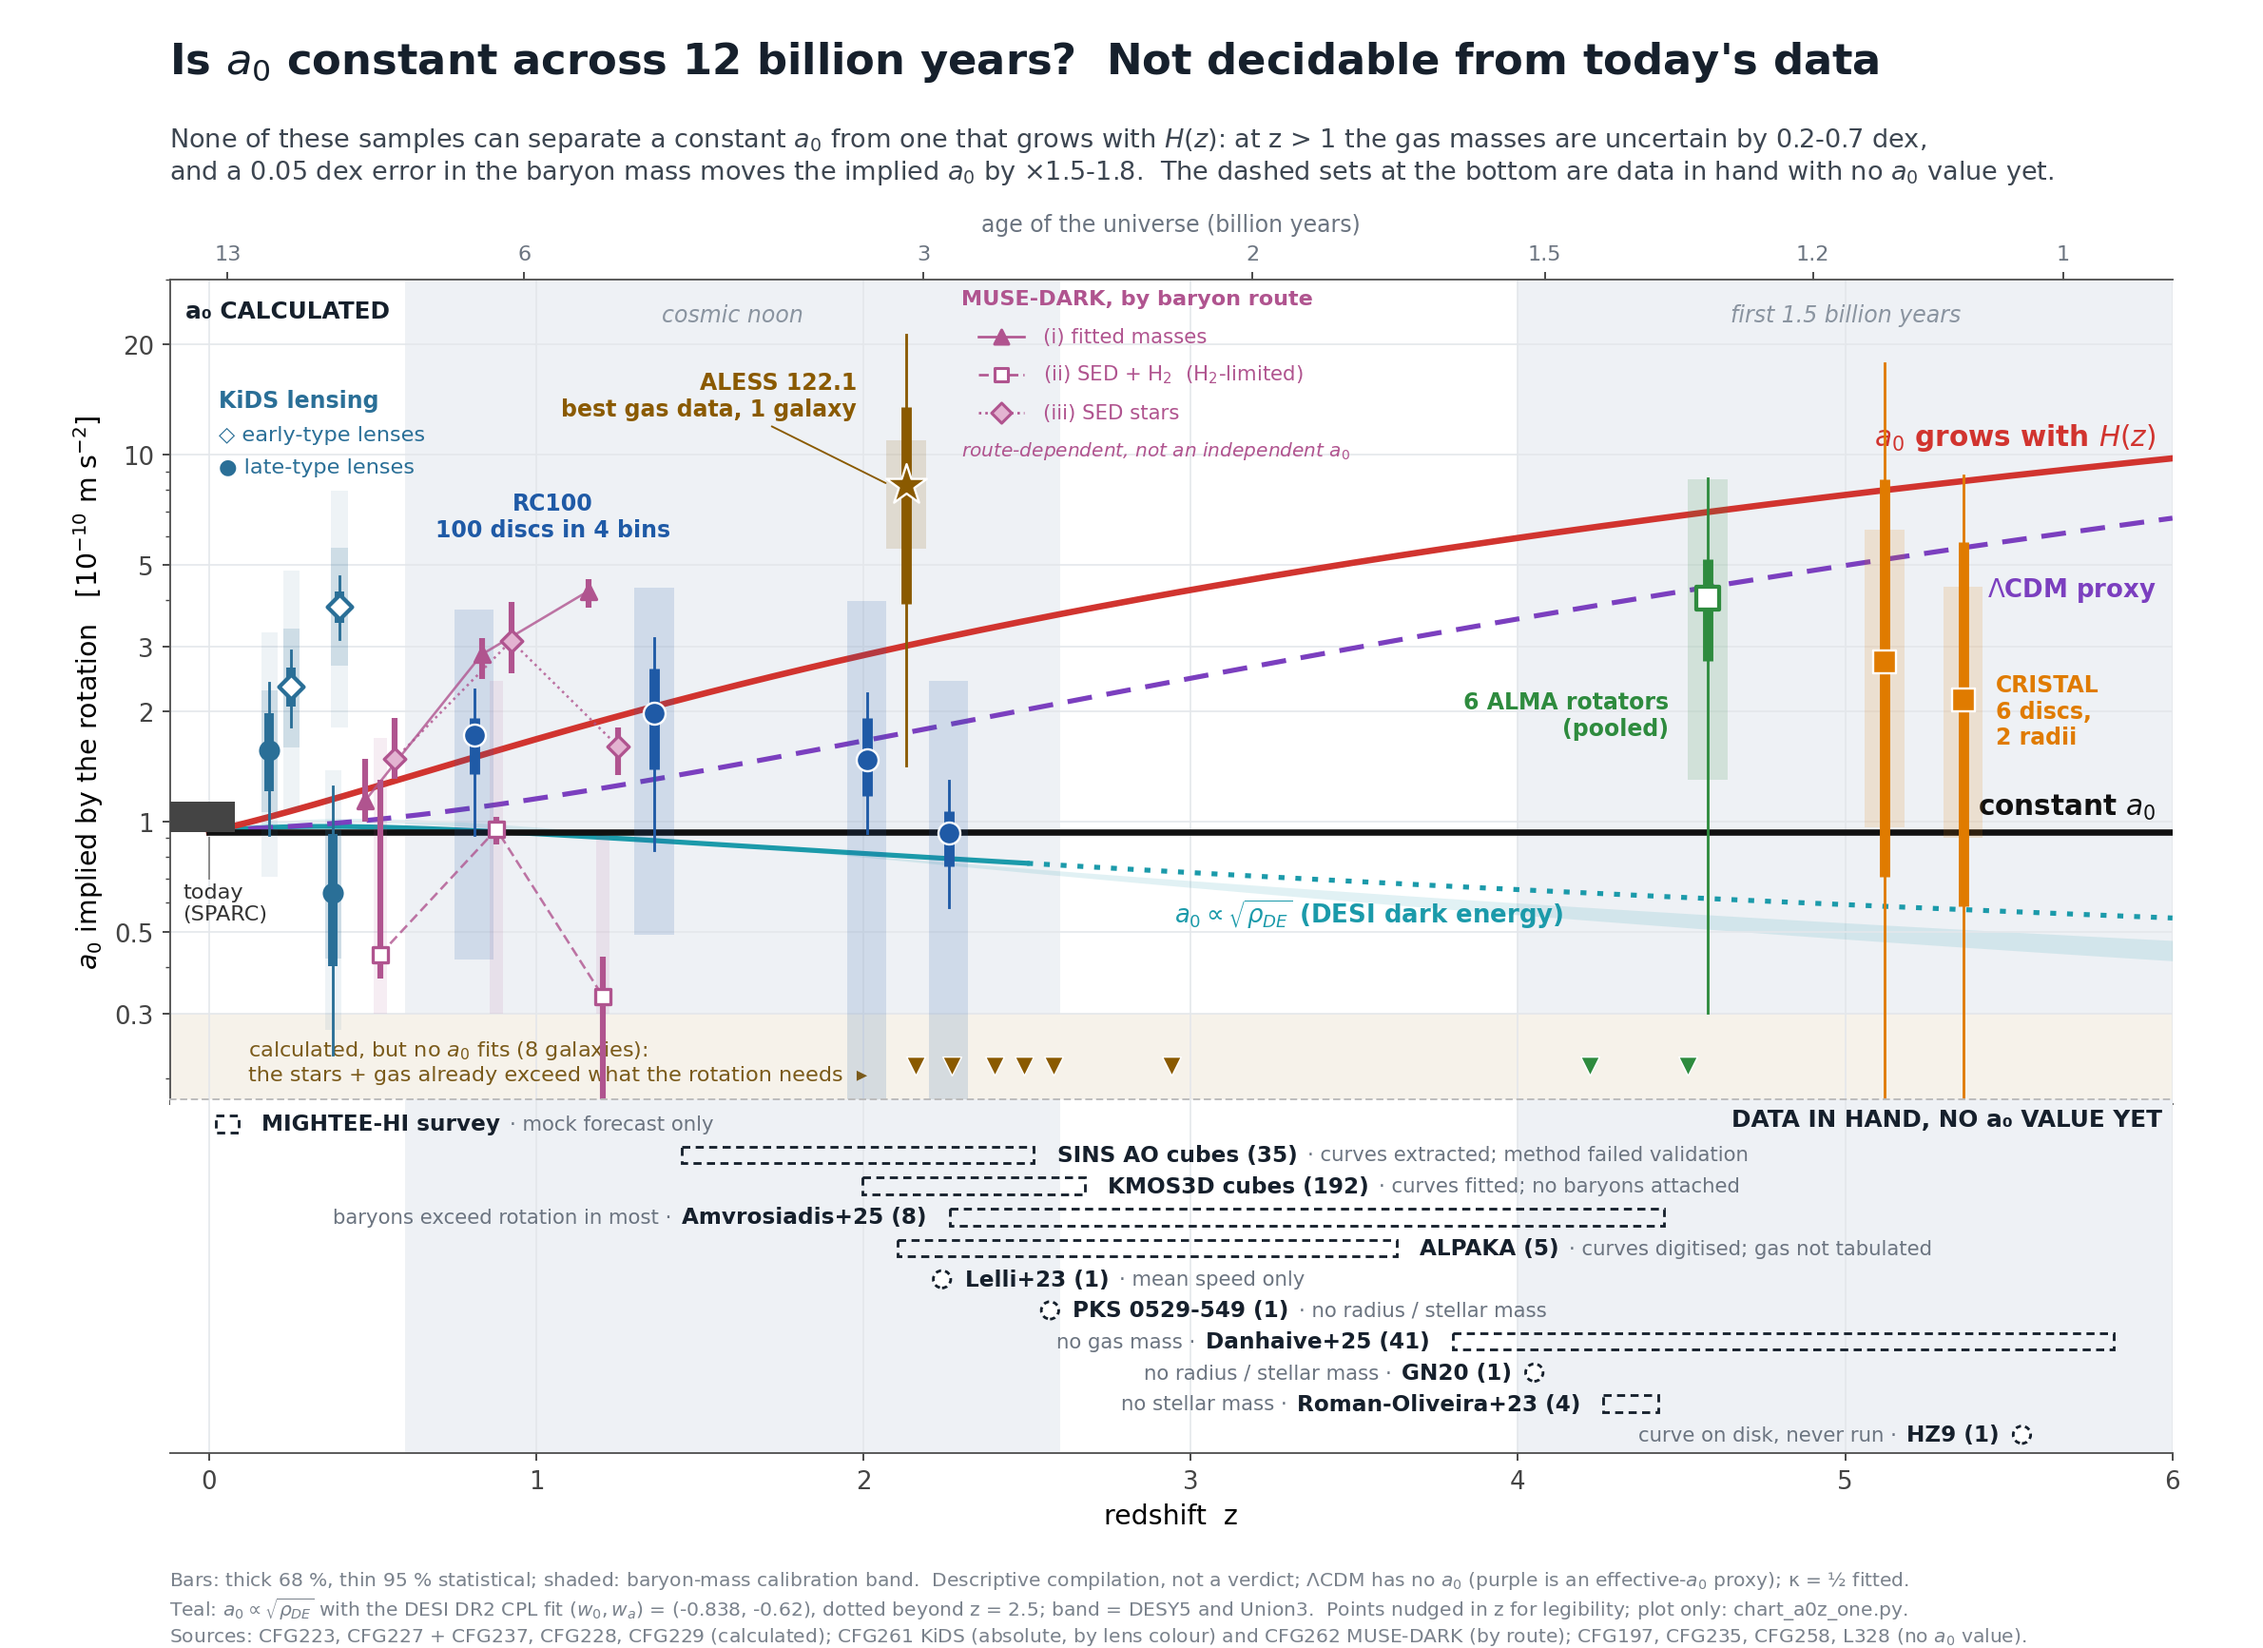
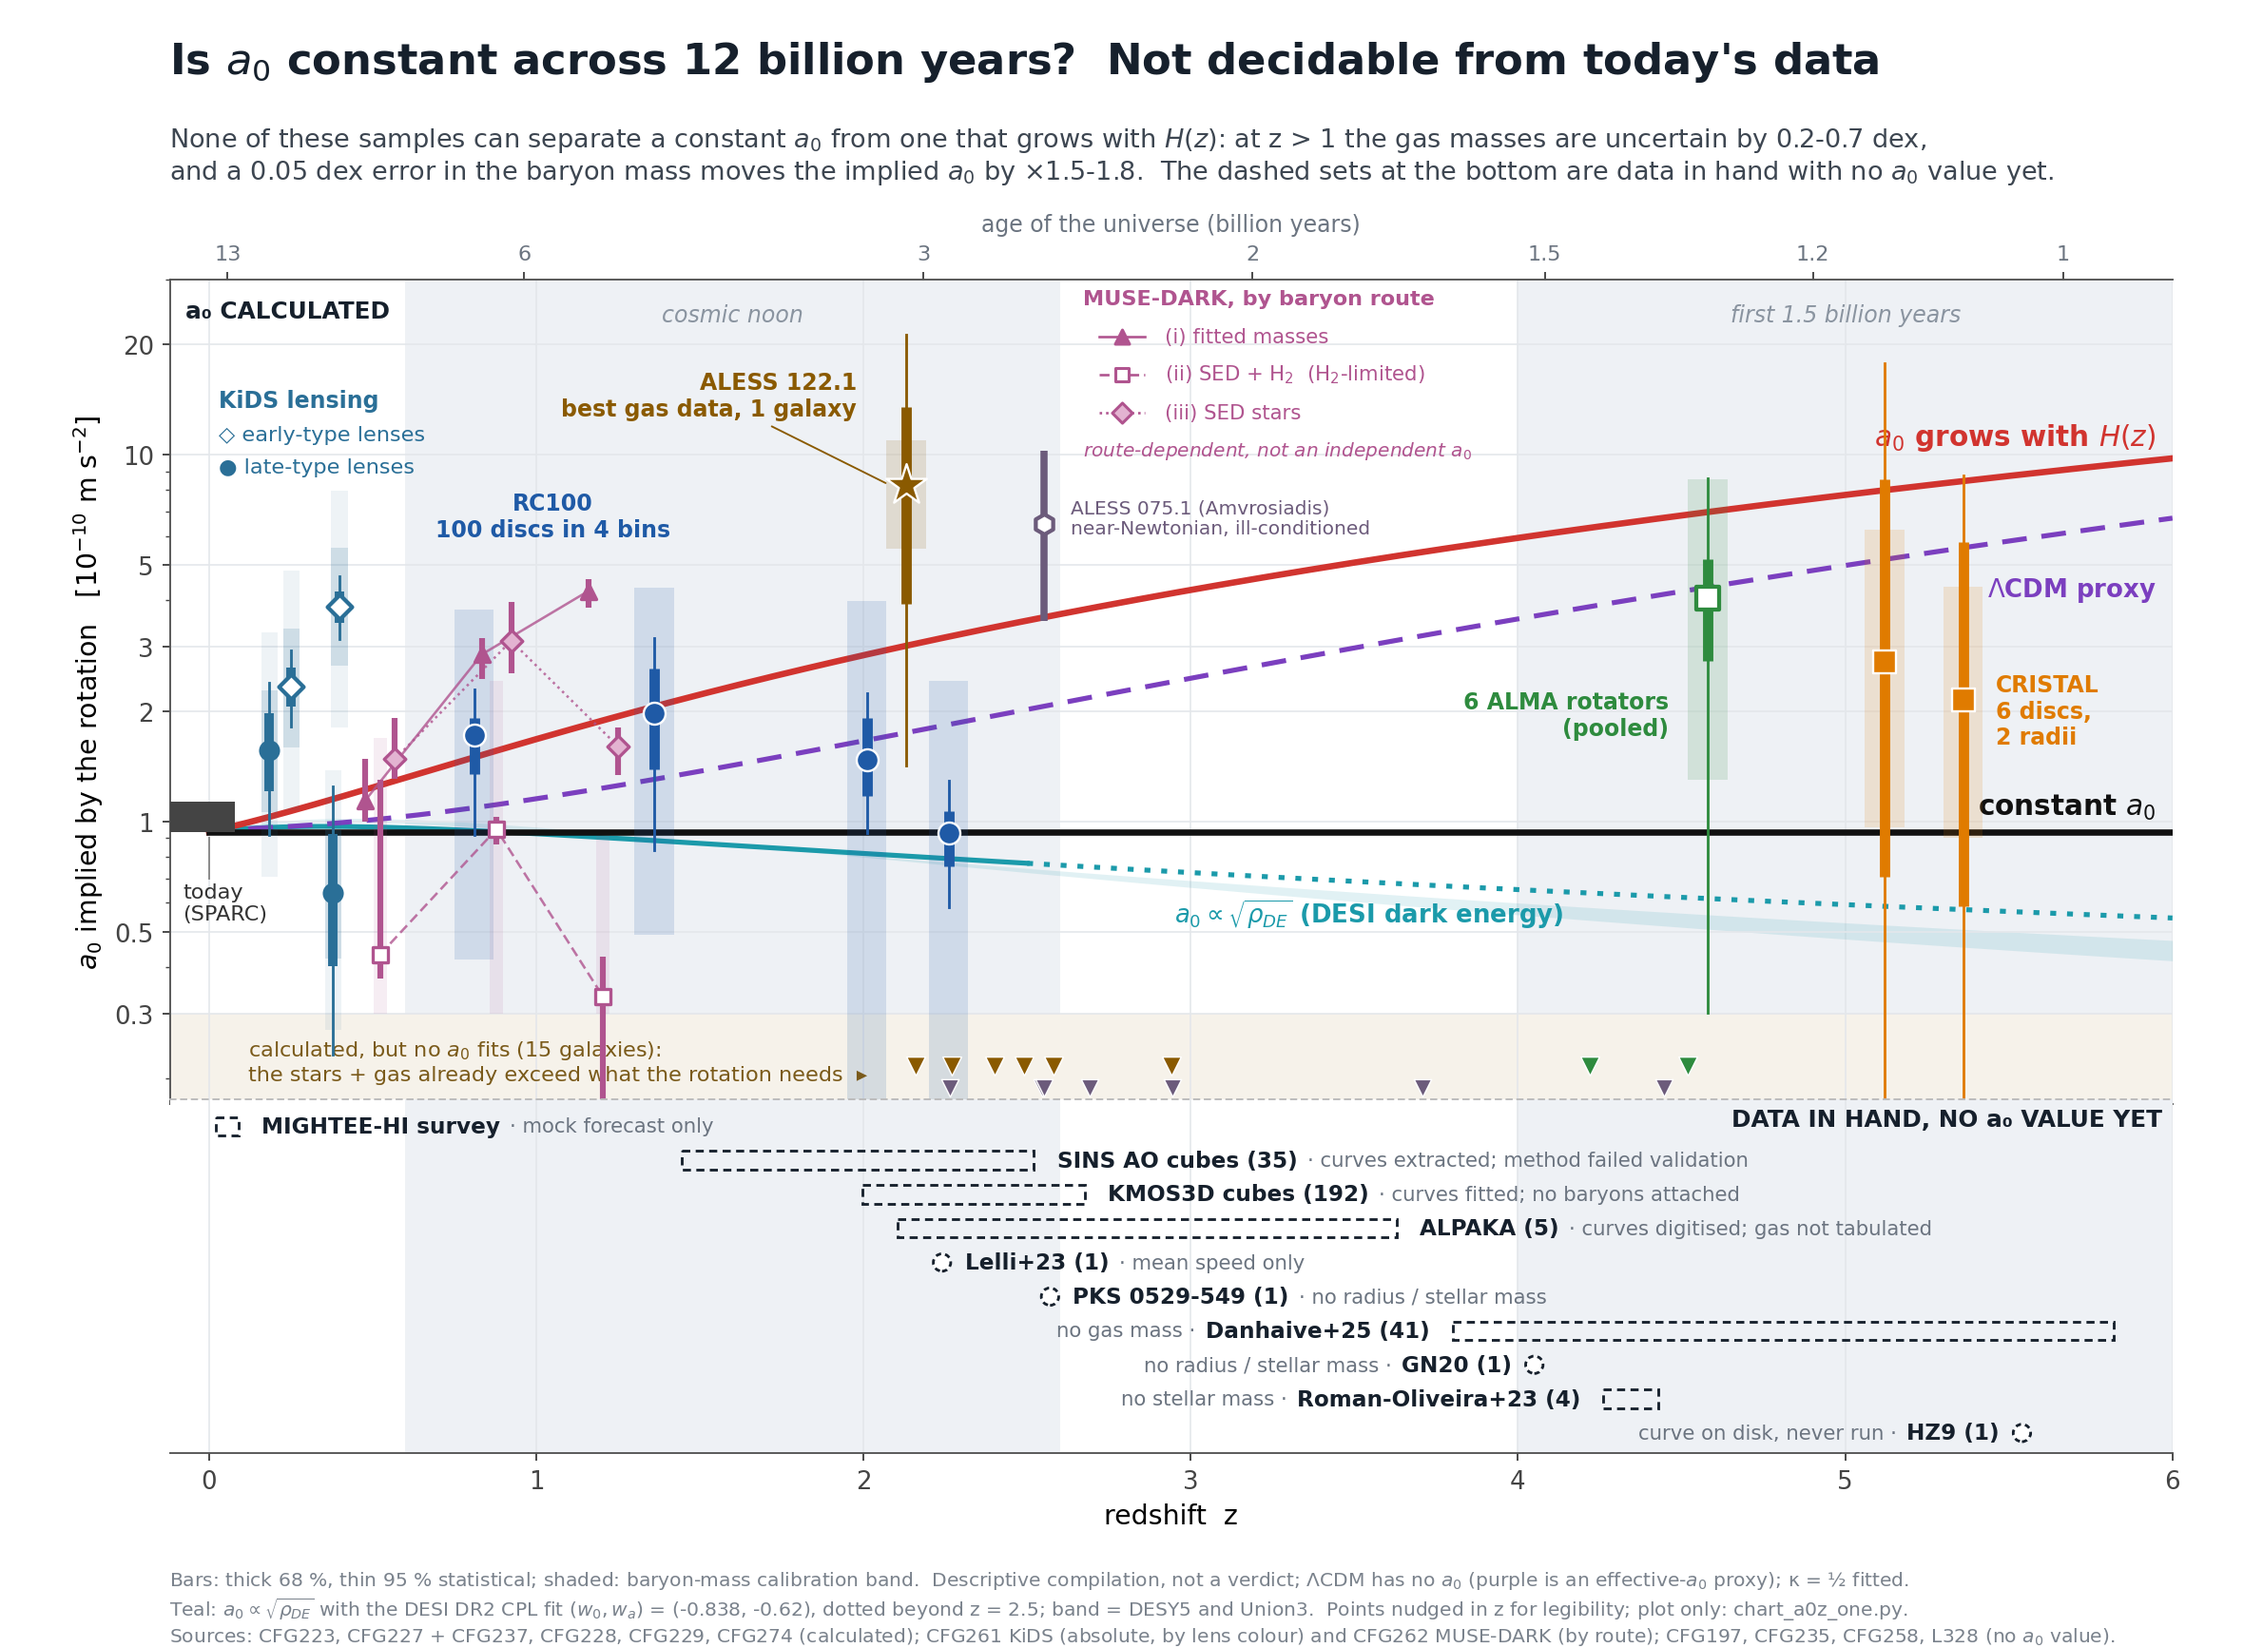
CHART one-chart: Amvrosiadis eight from CFG274 (255f07244) -- seven no-root floor triangles, ALESS 075.1 s* 6.89 as a labelled ill-conditioned open marker; row removed from the no-a0-yet strip; floor count 15; 11/11 checks; plot only

diff --git a/campaign_fresh_gravity/CHART_a0z_rar_z0_5_2026-10-01/chart_a0z_one.py b/campaign_fresh_gravity/CHART_a0z_rar_z0_5_2026-10-01/chart_a0z_one.py
@@ -44,12 +44,11 @@ alp_none = [alp[i] for i in ("13", "23", "24", "25", "28")]          # CFG237: n
 DA = os.path.join(ROOT, "data_assembly")   # data-front cube products (50d8c274e SINS, ff6633985 KMOS3D): no a0 computed there
 sins = [float(r["z"]) for r in csv.DictReader(open(os.path.join(DA, "sins_cubes", "sins_ao_per_galaxy_AMEND1.csv")))]
 k3d = [float(r["Z"]) for r in csv.DictReader(open(os.path.join(DA, "kmos3d_cubes", "k3d_fits_main_final_flags.csv")))]
-amv = [float(r["z"]) for r in rar if r["class"] == "S" and r["id"] != "122.1"]   # 122.1 has a class-M a0 (CFG229)
+A274 = [r for r in csv.DictReader(open(os.path.join(CFG, "CFG274_amvrosiadis_eight_discs", "cfg274_points_stageB.csv"))) if "pooled" not in r["object"]]   # CFG274 255f07244
 TODO = [  # (label, zmin, zmax, short note)       sources: CFG227 'Listed, no point' + CFG237 + CFG258 + L328
     ("MIGHTEE-HI survey", 0.02, 0.09, "mock forecast only"),
     (f"SINS AO cubes ({len(sins)})", min(sins), max(sins), "curves extracted; method failed validation"),
     (f"KMOS3D cubes ({len(k3d)})", min(k3d), max(k3d), "curves fitted; no baryons attached"),
-    (f"Amvrosiadis+25 ({len(amv)})", min(amv), max(amv), "baryons exceed rotation in most"),
     (f"ALPAKA ({len(alp_none)})", min(alp_none), max(alp_none), "curves digitised; gas not tabulated"),
     ("Lelli+23 (1)", 2.24, 2.24, "mean speed only"),
     ("PKS 0529-549 (1)", 2.57, 2.57, "no radius / stellar mass"),
@@ -64,7 +63,7 @@ check("ALESS 122.1 plotted a0 equals CFG229 a0_imp", abs(f(pts["ALESS_122.1"], "
 check("ALPINE6 plotted a0 equals CFG228 a0_imp", abs(f(pts["ALPINE6 pooled"], "a0_1e-10_m_s2") * 1e-10 - J228["IMPL"]["ALPINE6"]["a0_imp"]) < 1e-14)
 check("Danhaive gold: 41 discs at z 3.80-5.82", len(dan) == 41 and abs(min(dan) - 3.80) < 1e-6 and abs(max(dan) - 5.82) < 1e-6, f"({len(dan)}, {min(dan)}-{max(dan)})")
 check("Roman-Oliveira with kinematics: 4", len(ro) == 4, f"({len(ro)}: {[i for i, _ in ro]})")
-check("Amvrosiadis without an a0: 8", len(amv) == 8, f"({len(amv)})")
+check("CFG274 Amvrosiadis: 7 of 8 no root, ALESS 075.1 s* 6.89 (255f07244)", sum(r["no_root"] == "1" for r in A274) == 7 and any(r["no_root"] == "0" and abs(float(r["s_star"]) - 6.887) < 0.01 for r in A274), f"({sum(r['no_root'] == '1' for r in A274)} no root)")
 nr = [o for o in ("ALPAKA15", "ALPAKA18", "ALPAKA19", "ALPAKA20", "ALPAKA22", "SINS_BX610", "VC5110377875", "SPT0418-47") if pts[o]["no_root"] == "1"]
 check("DESI CPL curve is nearly flat: about 0.87 x local at z = 2", abs(np.interp(2.0, Zc, cur["M-DEC"]) - 0.87) < 0.01, f"({np.interp(2.0, Zc, cur['M-DEC']):.3f})")
 check("SINS AO 35 and KMOS3D 192 cube products on disk", len(sins) == 35 and len(k3d) == 192, f"({len(sins)}, {len(k3d)})")
@@ -132,7 +131,16 @@ NRX = {"SINS_BX610": 2.16, "ALPAKA15": 2.27, "ALPAKA18": 2.40, "ALPAKA19": 2.49,
        "SPT0418-47": 4.22, "VC5110377875": 4.52}
 for o, x in NRX.items():
     ax.scatter([x], [0.215], marker="v", s=70, color=COL["M"] if not o.startswith(("SPT", "VC")) else COL["ALMA"], zorder=6, edgecolor="white", lw=0.6)
-ax.text(0.12, 0.222, "calculated, but no $a_0$ fits (8 galaxies):\nthe stars + gas already exceed what the rotation needs  ▸",
+AMV = "#6c5b7b"
+for r in A274:
+    if r["no_root"] == "1":
+        ax.scatter([f(r, "z")], [0.188], marker="v", s=60, color=AMV, zorder=6, edgecolor="white", lw=0.6)
+    else:
+        zz = f(r, "z"); ax.plot([zz, zz], [f(r, "stat68_lo") * U, f(r, "stat68_hi") * U], color=AMV, lw=3.2, zorder=5, solid_capstyle="butt")
+        ax.scatter([zz], [f(r, "s_star") * U], marker="h", s=80, facecolor="white", edgecolor=AMV, linewidth=1.8, zorder=6)
+        ax.text(zz + 0.08, f(r, "s_star") * U * 1.04, "ALESS 075.1 (Amvrosiadis)\nnear-Newtonian, ill-conditioned", color=AMV, fontsize=8.5, va="center")
+N_NR = 8 + sum(r["no_root"] == "1" for r in A274)
+ax.text(0.12, 0.222, f"calculated, but no $a_0$ fits ({N_NR} galaxies):\nthe stars + gas already exceed what the rotation needs  ▸",
         fontsize=9.5, color="#7a5a1a", va="center")
 # MUSE-DARK (CFG262, fb24a5922): implied a0 in z-thirds BY BARYON ROUTE, reading bD (projected + asymmetric drift, CFG236's
 # best-supported reading). Routes are separate series and are never pooled; all inputs are one DC14 fit plus an SED mass.
@@ -150,7 +158,7 @@ for rt, st in RSTY.items():
             ax.add_patch(plt.Rectangle((xx - 0.02, lo * U), 0.04, (hi - lo) * U, color=COL_MD, alpha=0.10, lw=0, zorder=3))
         ax.plot([xx, xx], [f(r, "stat68_lo") * U, f(r, "stat68_hi") * U], color=COL_MD, lw=2.6, zorder=5, solid_capstyle="butt")
         ax.scatter([xx], [yy], marker=st["mk"], s=46, facecolor=st["fc"], edgecolor=COL_MD, linewidth=1.4, zorder=6)
-lx, ly = 2.35, 21.0
+lx, ly = 2.72, 21.0
 ax.text(lx - 0.05, ly * 1.22, "MUSE-DARK, by baryon route", color=COL_MD, fontsize=9.5, fontweight="bold", ha="left")
 for k, (rt, st) in enumerate(RSTY.items()):
     yy = ly / (1.27 ** k)
@@ -194,7 +202,7 @@ for i, (lab, z0, z1, note) in enumerate(TODO):
         sx.add_patch(plt.Rectangle((z0, i - 0.27), z1 - z0, 0.54, fill=False, ec=INK, lw=1.2, ls=(0, (3, 2)), zorder=3))
     else:
         sx.scatter([z0], [i], s=60, facecolor="white", edgecolor=INK, lw=1.2, linestyle=(0, (2, 1.5)), zorder=3)
-    right = not lab.startswith(("Amvrosiadis", "Danhaive", "GN20", "Roman", "HZ9"))
+    right = not lab.startswith(("Danhaive", "GN20", "Roman", "HZ9"))
     xp = z1 + 0.07 if right else z0 - 0.07
     t = sx.text(xp, i, lab, ha="left" if right else "right", va="center", fontsize=9.8, color=INK, fontweight="bold")
     tb = t.get_window_extent(fig.canvas.get_renderer()); inv = sx.transData.inverted()
@@ -212,7 +220,7 @@ fig.text(0.075, 0.905, "None of these samples can separate a constant $a_0$ from
          "and a 0.05 dex error in the baryon mass moves the implied $a_0$ by ×1.5-1.8.  The dashed sets at the bottom are data in hand with no $a_0$ value yet.",
          fontsize=11.5, color="#3d4651", va="center")
 fig.text(0.075, 0.004, "Bars: thick 68 %, thin 95 % statistical; shaded: baryon-mass calibration band.  Descriptive compilation, not a verdict; "
-         "ΛCDM has no $a_0$ (purple is an effective-$a_0$ proxy); κ = ½ fitted.\nTeal: $a_0 \\propto \\sqrt{\\rho_{DE}}$ with the DESI DR2 CPL fit ($w_0, w_a$) = (-0.838, -0.62), dotted beyond z = 2.5; band = DESY5 and Union3.  Points nudged in z for legibility; plot only: chart_a0z_one.py.\nSources: CFG223, CFG227 + CFG237, CFG228, CFG229 (calculated); CFG261 KiDS (absolute, by lens colour) and CFG262 MUSE-DARK (by route); CFG197, CFG235, CFG258, L328 (no $a_0$ value).",
+         "ΛCDM has no $a_0$ (purple is an effective-$a_0$ proxy); κ = ½ fitted.\nTeal: $a_0 \\propto \\sqrt{\\rho_{DE}}$ with the DESI DR2 CPL fit ($w_0, w_a$) = (-0.838, -0.62), dotted beyond z = 2.5; band = DESY5 and Union3.  Points nudged in z for legibility; plot only: chart_a0z_one.py.\nSources: CFG223, CFG227 + CFG237, CFG228, CFG229, CFG274 (calculated); CFG261 KiDS (absolute, by lens colour) and CFG262 MUSE-DARK (by route); CFG197, CFG235, CFG258, L328 (no $a_0$ value).",
          fontsize=8.6, color="#7a828c")
 fig.savefig(os.path.join(HERE, "chart_a0z_one_2026-10-01.png"), dpi=170)
 P(f"{sum(CHECKS)}/{len(CHECKS)} checks pass; wrote chart_a0z_one_2026-10-01.png")

diff --git a/campaign_fresh_gravity/CHART_a0z_rar_z0_5_2026-10-01/README.md b/campaign_fresh_gravity/CHART_a0z_rar_z0_5_2026-10-01/README.md
@@ -32,3 +32,5 @@ Requested by the owner as a single figure. Top: the calculated implied-a₀ poin
 **KiDS absolute levels (CFG261, 80fd3d666), replacing the CFG255 "change only" bracket and inset.** The four colour-class rows in the lens-z thirds (the joint rows are never headlines): late-type lenses s* = 1.67 (z 0.205) and 0.68 (z 0.400); early-type lenses 2.48 (z 0.232) and 4.12 (z 0.378). Drawn with 68/95 % bars, the inner (±0.15 dex) band darker and the outer (±0.30 dex) band lighter; late nudged −0.02 and early +0.02 in z. The stellar-mass zero point dominates (lever −1.1). The early class sits outside even the outer band for every law, and the classes disagree at the high-z third, so no single a₀ describes both. The ALPAKA strip note ("curves digitised; gas not tabulated") was edited in the working tree by another session and is kept: the table has CO L′ but no gas mass. 11/11 checks pass.
 
 **MUSE-DARK by baryon route (CFG262, fb24a5922), replacing the CFG199 lower-bound arrow.** Reading bD (projected + asymmetric drift), z-thirds 0.523 / 0.878 / 1.204, three separate series that are never pooled. Route (i), fitted masses: 1.22 / 3.05 / 4.53. Route (ii), SED + H₂: 0.46 / 1.02 / 0.36, drawn with its outer band (clipped at the floor zone) and labelled H₂-limited, since its recipe half-width is 0.74–0.93 dex. Route (iii), SED stars: 1.58 / 3.32 / 1.71. Routes nudged by ±0.045 in z. Every input is one DC14 fit plus an SED mass, so the series are labelled "route-dependent, not an independent a₀". The no-pressure reading b (lower bounds) is not drawn. 11/11 checks pass.
+
+**Amvrosiadis (CFG274, 255f07244): moved from the strip to "calculated".** Seven of the eight discs have NO ROOT. The baryons exceed the published V_circ acceleration at 2 r_e (D = 0.095–0.654), so they are drawn as grey-violet floor triangles on a second row of the floor zone. ALESS 075.1 has s* = 6.89 but sits at y = 6 (near-Newtonian, ill-conditioned), drawn as a labelled open hexagon with its 68 % bar. The pooled rows (no root) are not drawn, and per the lane the stat columns of the no-root rows are ignored. The floor caption count is now 15. The MUSE-DARK legend moved to z ≈ 2.7. 11/11 checks pass.
